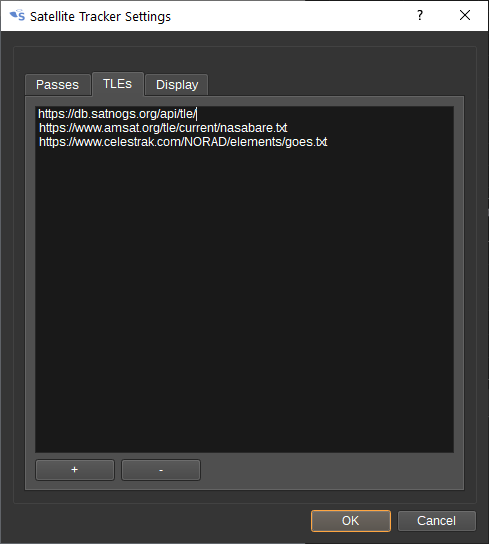
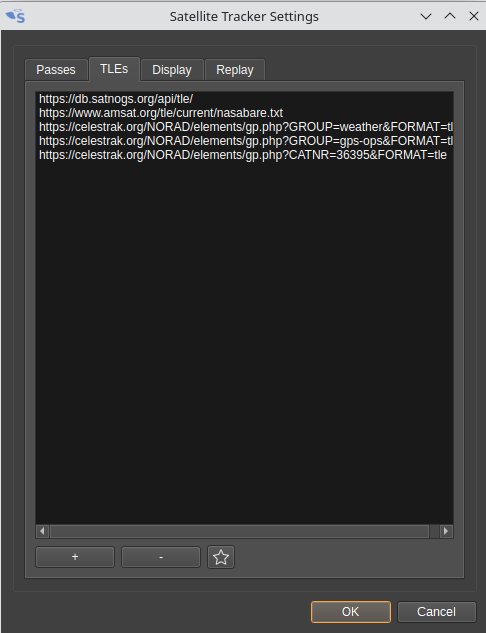
Satellite Tracker Settings: update help page for new button

Changed region(s): [[0.0, 0.0, 1.0, 1.0], [0.0, 0.9688, 0.0309, 1.0]]

diff --git a/plugins/feature/satellitetracker/readme.md b/plugins/feature/satellitetracker/readme.md
@@ -103,7 +103,8 @@ For commands, scripts and speech, the following variables can be substituted: `$
 
 ![Satellite tracker settings dialog](../../../doc/img/SatelliteTracker_plugin_settingsdialog2.png)
 
-On the TLEs tab, you can provide a list of URL from which satellite Two Line Element files can be downloaded from.
+On the TLEs tab, you can manage the default list of URLs from which satellite Two Line Element files can be downloaded from.
+You can add, edit, delete single entries or restore the default list.
 TLE files contain the orbital parameters for a satellite and are required in order to be able to calculate a satellites position.
 TLEs for may satellites can be obtained from https://www.celestrak.com/NORAD/elements/
 To use a TLE file on a local disk, use a URL such as file:my_tle.txt
